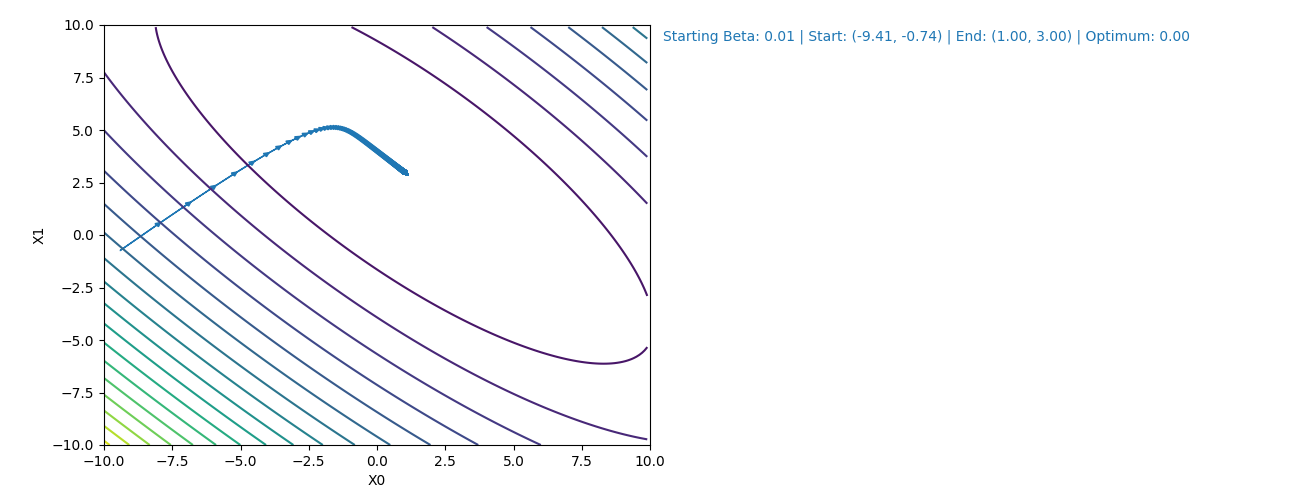
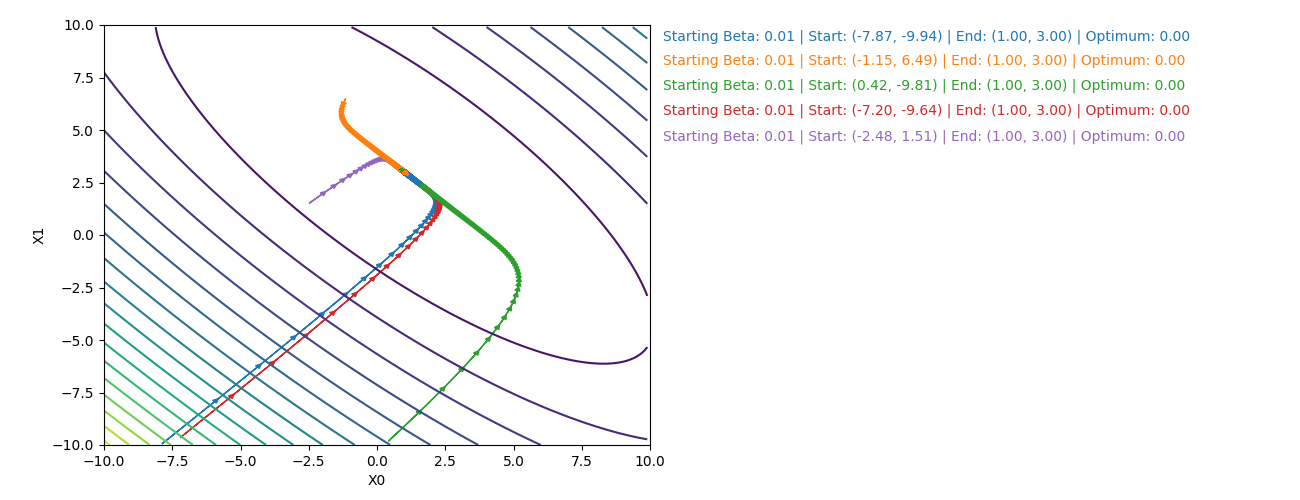
generated additional plots for boot function

diff --git a/cw1/gradient_ascent.py b/cw1/gradient_ascent.py
@@ -211,16 +211,17 @@ def booth_function(x):
     return (x1 + 2 * x2 - 7) ** 2 + (2 * x1 + x2 - 5) ** 2
 
 
-def booth_optimum(tries=1, plot_name=None):
+def booth_optimum(beta, tries=1, plot_name=None):
     """
     Calculates and plots steps of steepest ascent method for chosen booth function
 
     Args:
+        beta: step size
         tries: number of to create and find optimum from. Defaults to 1.
         plot_name: file name to save plot, if none given plot will only be displayed. Defaults to None.
     """
     opt_search = OptimumSearch(booth_function, 2, 10)
-    opt_search.run(0.05, plot_name=plot_name, tries=tries)
+    opt_search.run(beta, plot_name=plot_name, tries=tries, iteration_limit=40000)
 
 
 def f1_optimum():
@@ -465,7 +466,10 @@ def f3_optimum():
 
 
 if __name__ == "__main__":
-    # booth_optimum()
+    # booth_optimum(0.01, tries=5, plot_name="plots/booth/booth_0,01.png")
+    # booth_optimum(0.05, tries=5, plot_name="plots/booth/booth_0,05.png")
+    booth_optimum(0.12, tries=5, plot_name="plots/booth/booth_oscillation.png")
+    # booth_optimum(0.11, tries=5, plot_name="plots/booth/booth_0,11.png")
     # f1_optimum()
     # f2_optimum()
-    f3_optimum()
+    # f3_optimum()
